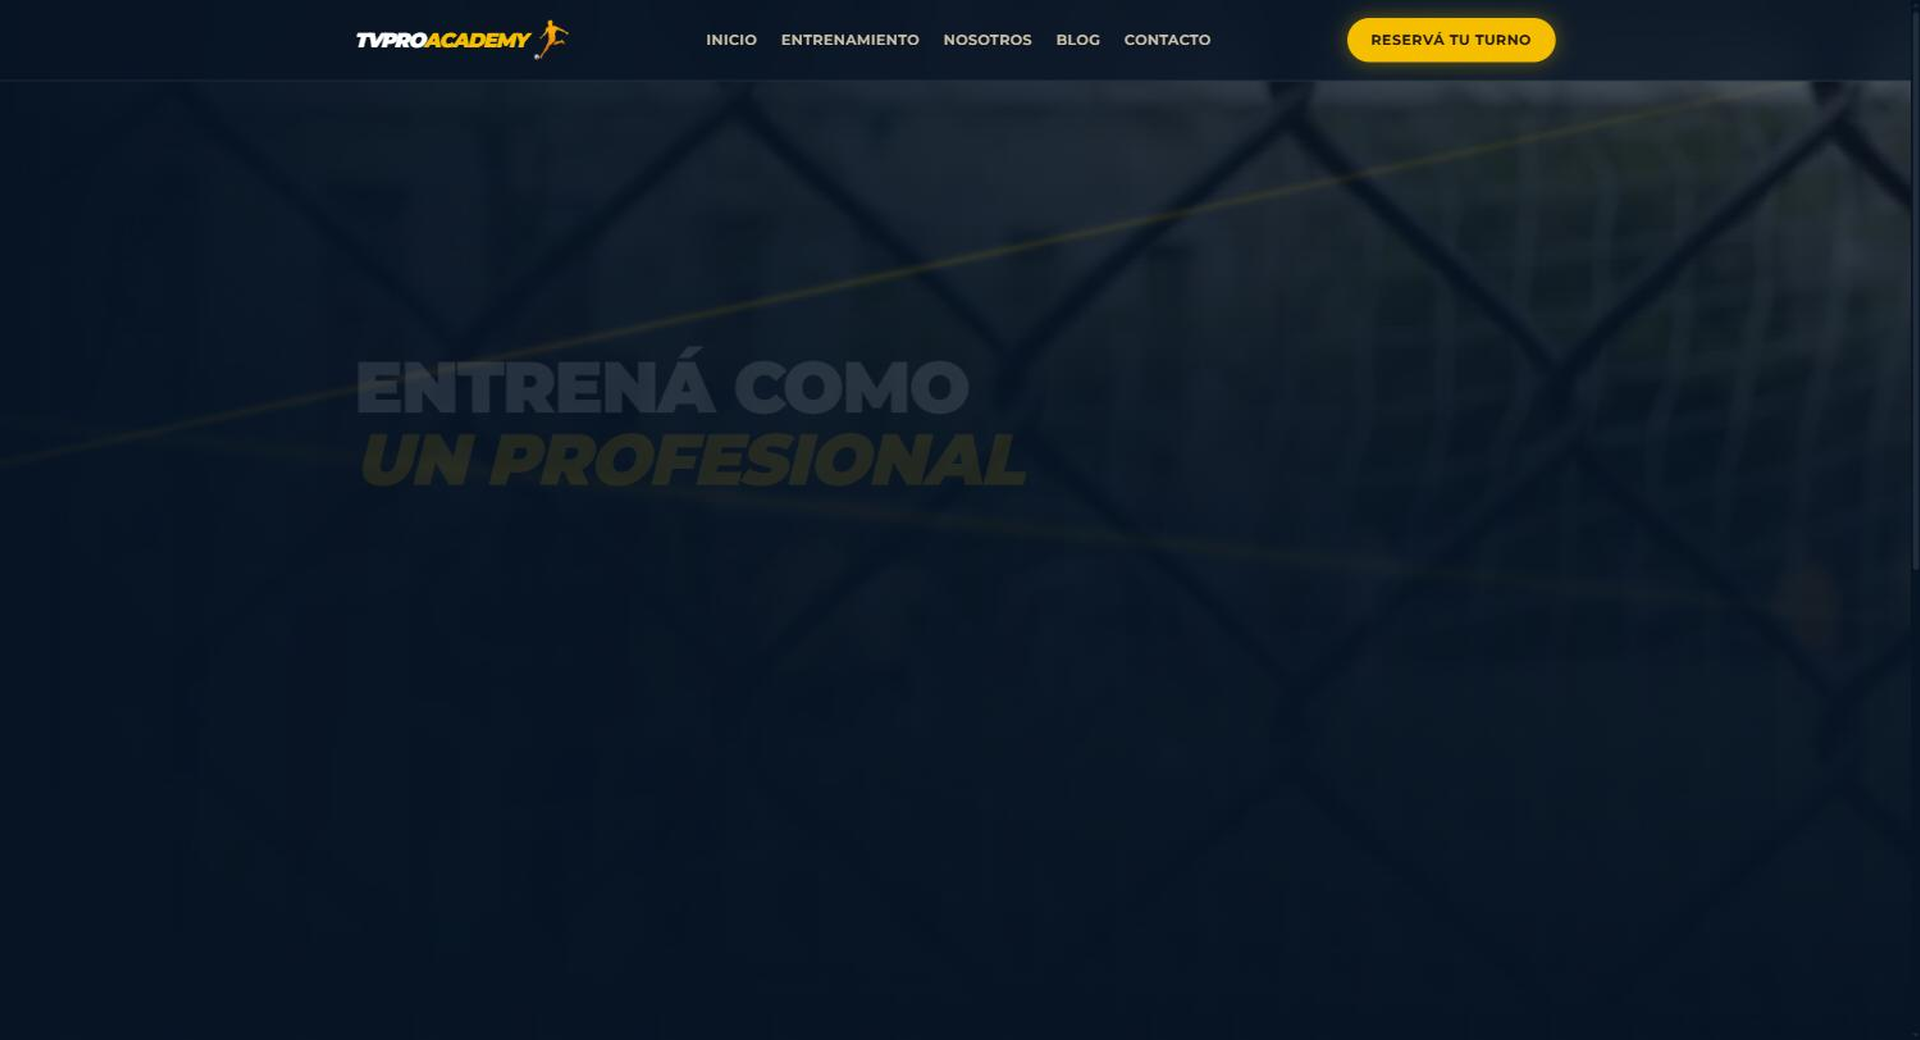
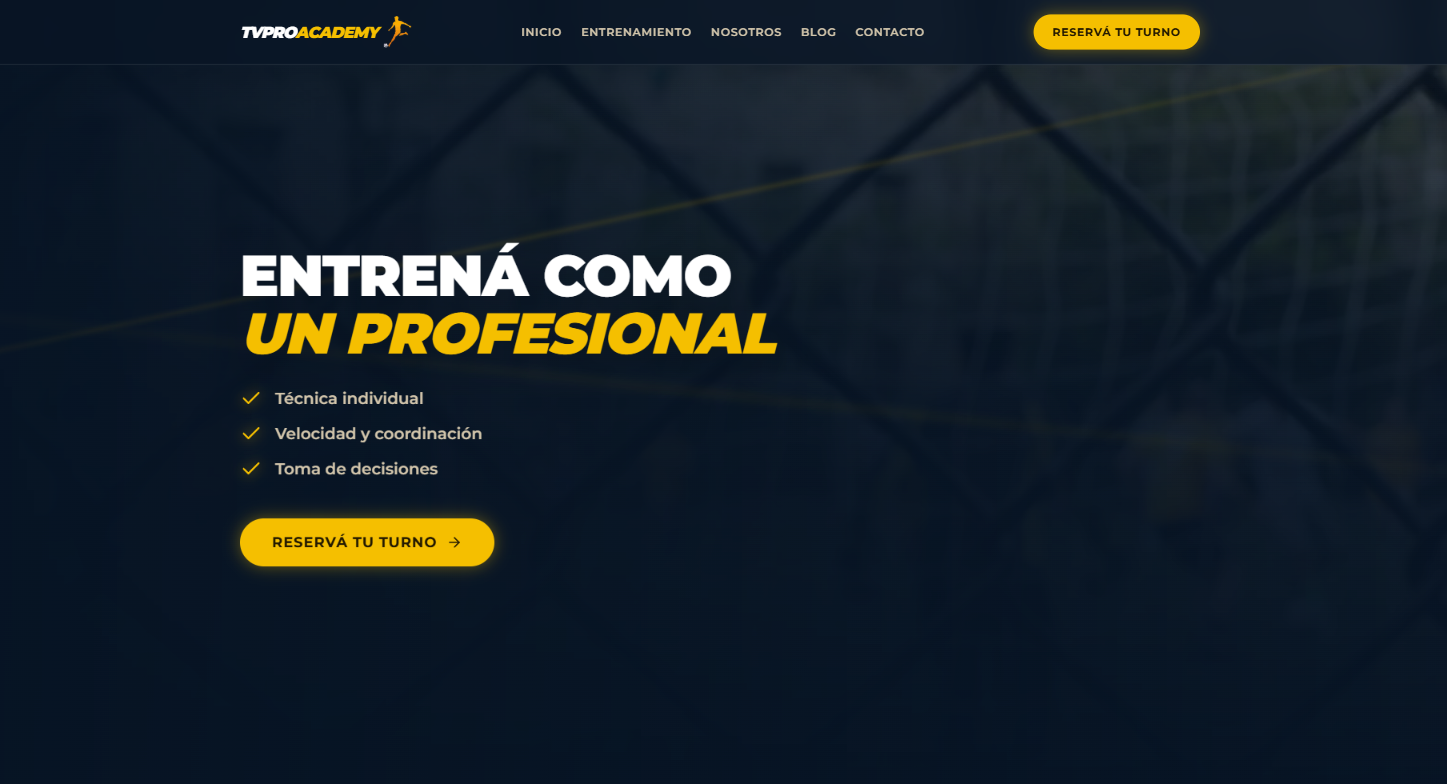
fix: screenshots nitidos (sin upscale) + mockups mobile transparentes
tvproacademy.png/vimet.png: la captura anterior era JPEG de baja
resolucion (limite de la herramienta de screenshot, ~1500px pese a
pedir 1920) escalada con LANCZOS a 1920x1040 - eso metia el blur.
Recapturadas via zoom (PNG nativo) y recortadas al aspect ratio sin
upscalear.

vimet-app.png/inglobal-agenda.png: mockup de telefono sin el fondo
solido detras (canvas RGBA transparente, sin "contenedor") - flota
sobre el bg de la pagina en vez de aparecer metido en una caja.

ProjectsGrid.tsx: box del mockup mobile pasa a object-contain (no
cover, para no recortar el celular) sin panel/borde/bg propio; el
CTA "Hablemos" ya no aparece en las cards WIP con url ficticia
(#contacto) - queda solo en el placeholder real de "proximo proyecto".

diff --git a/components/sections/ProjectsGrid.tsx b/components/sections/ProjectsGrid.tsx
@@ -382,21 +382,25 @@ export default function ProjectsGrid({ dict, lang }: { dict: ProjectsDict; lang:
                       className={`${project.mobile ? 'md:col-span-4' : 'md:col-span-7'} ${i % 2 === 1 ? 'md:order-2' : ''}`}
                     >
                       <div
-                        className={`panel shot relative mx-auto max-w-[280px] md:max-w-none rounded overflow-hidden ${
-                          project.mobile ? 'aspect-[742/1512]' : 'aspect-[1920/1040]'
-                        }`}
-                        style={{ background: project.bgColor }}
+                        className={
+                          project.mobile
+                            ? 'relative mx-auto w-full max-w-[260px] md:max-w-[320px] aspect-[690/1460]'
+                            : 'panel shot relative aspect-[1920/1040] rounded overflow-hidden'
+                        }
+                        style={project.mobile ? undefined : { background: project.bgColor }}
                       >
                         <Image
                           src={project.screenshot as string}
                           alt={`Captura de ${project.name}`}
                           fill
-                          sizes={project.mobile ? '(max-width: 768px) 60vw, 30vw' : '(max-width: 768px) 100vw, 58vw'}
+                          sizes={project.mobile ? '(max-width: 768px) 55vw, 28vw' : '(max-width: 768px) 100vw, 58vw'}
                           priority={project.priority}
                           onLoad={() =>
                             setLoadedImages((m) => (m[project.id] ? m : { ...m, [project.id]: true }))
                           }
-                          className="object-cover transition-[opacity,transform] duration-700 ease-out group-hover:scale-[1.04]"
+                          className={`transition-[opacity,transform] duration-700 ease-out group-hover:scale-[1.04] ${
+                            project.mobile ? 'object-contain' : 'object-cover'
+                          }`}
                           style={{ opacity: loadedImages[project.id] ? 1 : 0 }}
                         />
                       </div>
@@ -425,7 +429,7 @@ export default function ProjectsGrid({ dict, lang }: { dict: ProjectsDict; lang:
                       {descTyping && <span className="typing-cursor" />}
                     </p>
 
-                    {(settled(i) || phase === 'done') && (
+                    {(settled(i) || phase === 'done') && (external || project.id === 'coming-soon') && (
                       <a
                         href={project.url}
                         target={external ? '_blank' : undefined}
